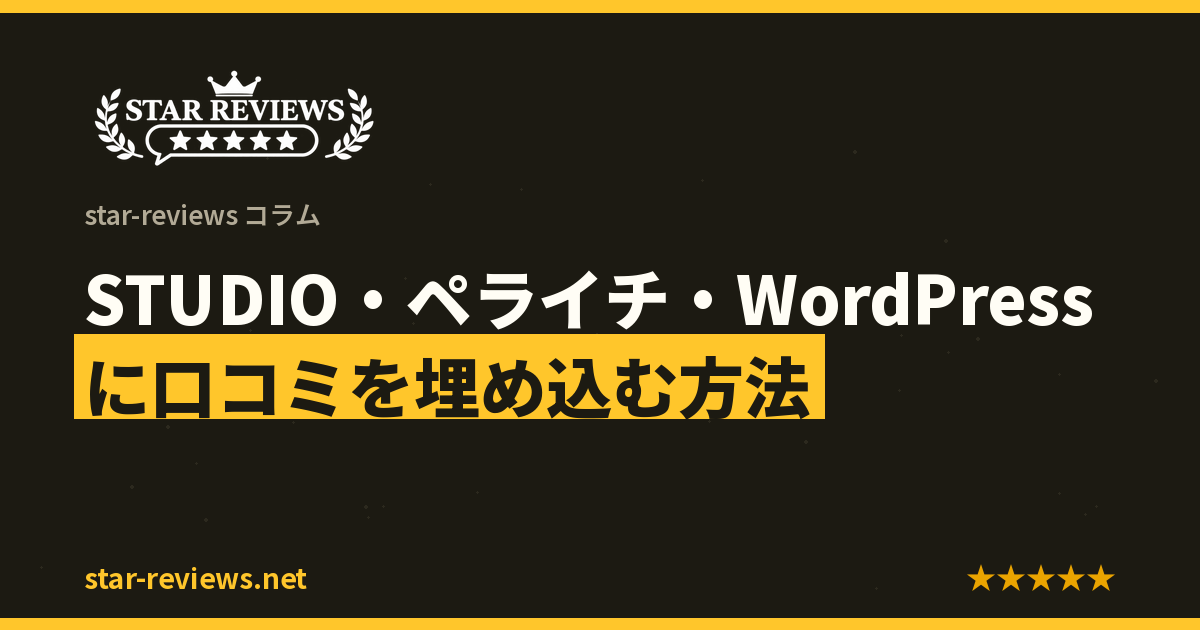
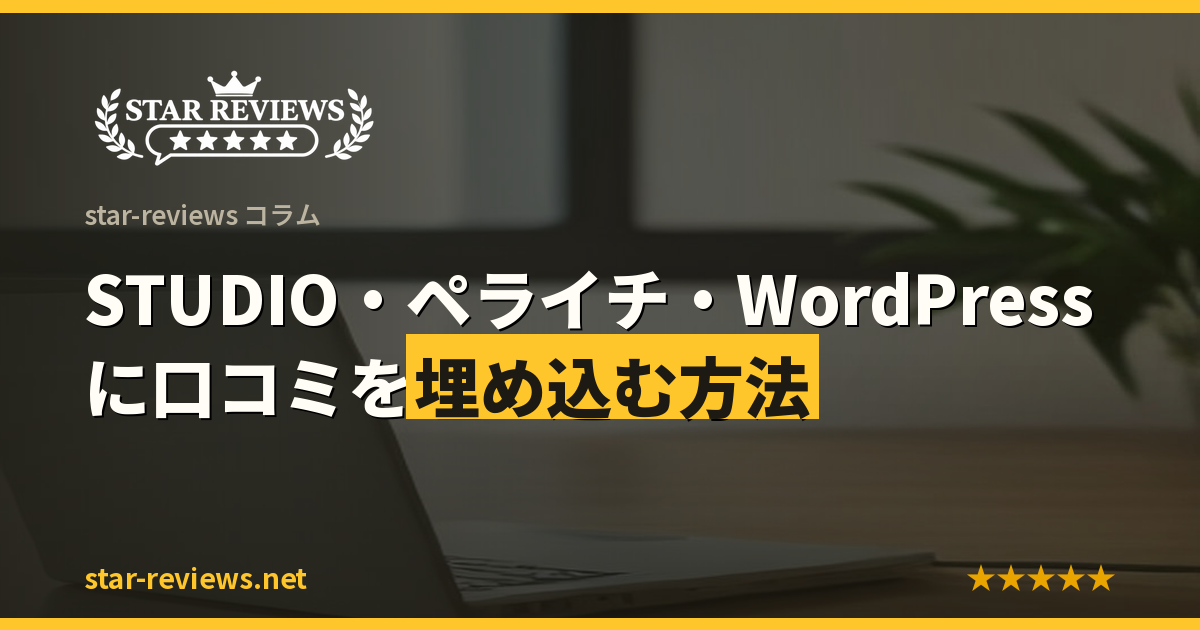
feat(blog): アイキャッチをタイトル連動のAI背景化＋強調フレーズ対応
- 背景: タイトルに関連するAI写真(Pollinations・無料/キー不要)を自動生成し、
  黒×黄の暗幕グラデ＋ロゴ＋★を重ねる。透かしは下端クロップで除去。取得失敗時は
  無地にフォールバック。記事ごとに coverPrompt(英語の題材)で題材を具体指定可。
- 強調: マーカーを「折返し最終行」ではなく意味のある語を強調。emph 指定、無ければ
  【】「」内を自動強調。折返しをまたいでも正しく強調。
- BlogPost型に coverPrompt/emph 追加。既存3記事に設定し生成し直し。
- publish-blog.mjs が coverPrompt/emph を publish-result に出力→ワークフローが
  EYECATCH_PROMPT/EYECATCH_EMPH でgen-eyecatchに渡す。

tsc通過・テスト43件pass・生成画像を確認済。

Claude-Session: https://claude.ai/code/session_01HYwaAWzcWaREfbQEofPorH

diff --git a/shared/blog/types.ts b/shared/blog/types.ts
@@ -8,6 +8,8 @@ export interface BlogPost {
   updated?: string; // 更新日 'YYYY-MM-DD'（任意）
   tags?: string[]; // 表示用タグ
   cover?: string; // カバー画像の絶対パス（例 /blog/assets/xxx.png）。未指定なら /og.png
+  coverPrompt?: string; // アイキャッチ背景のAI画像プロンプト（英語・題材を具体指定）。未指定ならタイトルから自動
+  emph?: string; // アイキャッチで黄色強調する語（未指定なら【】や「」内を自動強調）
   bodyHtml: string; // 本文（セマンティックHTML。h2/h3/p/ul/table 等）
   lead?: string; // 冒頭の結論ボックス（40〜80字で記事の問いに直接回答。AEO/スニペット用）
   faq?: { q: string; a: string }[]; // よくある質問（可視FAQ＋FAQPage構造化データを自動出力）

diff --git a/shared/blog/articles/embed-customer-reviews-on-website.ts b/shared/blog/articles/embed-customer-reviews-on-website.ts
@@ -10,6 +10,8 @@ export const post: BlogPost = {
   tags: ["埋め込み", "お客様の声", "ハウツー"],
   author: "star-reviews 編集部",
   cover: "/blog/assets/embed-customer-reviews-on-website.png",
+  coverPrompt: "close-up of a laptop screen showing a website page with a grid of customer testimonial cards and gold star ratings, bright modern office desk",
+  emph: "コピペ1行でOK",
   lead: "お客様の声は、レビュー収集ツールが発行する「埋め込みコード（1行）」を、サイトの表示したい場所に貼るだけで載せられます。HTMLの知識は不要で、STUDIO・WordPress・ペライチでも手順は同じです。",
   faq: [
     {

diff --git a/shared/blog/articles/senja-testimonial-to-alternative.ts b/shared/blog/articles/senja-testimonial-to-alternative.ts
@@ -10,6 +10,8 @@ export const post: BlogPost = {
   tags: ["レビュー収集", "ツール比較", "お客様の声"],
   author: "star-reviews 編集部",
   cover: "/blog/assets/senja-testimonial-to-japanese-alternative.png",
+  coverPrompt: "a laptop on a bright modern desk showing a customer reviews dashboard with gold star ratings",
+  emph: "日本語代替",
   lead: "Senja・Testimonial.toは高機能ですが英語UI・ドル課金が難点。日本語の店舗なら、日本語で匿名・特典収集でき、円建てで使える日本語ツール（例: star-reviews）が代替候補になります。",
   faq: [
     {

diff --git a/shared/blog/articles/embed-reviews-studio-peraichi-wordpress.ts b/shared/blog/articles/embed-reviews-studio-peraichi-wordpress.ts
@@ -12,6 +12,8 @@ export const post: BlogPost = {
   tags: ["埋め込み", "STUDIO", "WordPress", "ペライチ"],
   author: "star-reviews 編集部",
   cover: "/blog/assets/embed-reviews-studio-peraichi-wordpress.png",
+  coverPrompt: "a laptop on a bright desk showing a website builder editor with a customer reviews embed block",
+  emph: "埋め込む方法",
   lead: "STUDIO・ペライチ・WordPressのどれでも、口コミの埋め込みは「カスタムHTML／コード埋め込み」のブロックに、ツールが発行した1行のコードを貼るだけ。HTMLを書く必要はありません。",
   faq: [
     {

diff --git a/scripts/gen-eyecatch.py b/scripts/gen-eyecatch.py
@@ -2,13 +2,15 @@
 # -*- coding: utf-8 -*-
 """
 star-reviews コラムのアイキャッチ（タイトル入りサムネイル）自動生成。
-黒×黄エディトリアルのブランドに統一（AIっぽいテンプレ背景は使わない）。
+タイトルに関連するAI背景画像（Pollinations・無料/APIキー不要）に、黒×黄ブランドの
+暗幕グラデ＋白ロゴ＋タイトル（最終行に黄色マーカー）＋★ を重ねる。
+背景取得に失敗したら黒×黄の無地背景にフォールバック（必ず画像は出力される）。
   python3 scripts/gen-eyecatch.py <slug> "<title>" [out_png]
+  環境変数 EYECATCH_BG=solid で背景画像を使わず無地にできる。
 出力: public/blog/assets/<slug>.png（1200x630・og:image兼用）
-フォントは scripts/fonts/NotoSansJP.ttf（無ければ system Noto CJK）。
 """
-import sys, os, hashlib, random
-from PIL import Image, ImageDraw, ImageFont
+import sys, os, io, hashlib, random, time, urllib.parse, urllib.request
+from PIL import Image, ImageDraw, ImageFont, ImageFilter, ImageEnhance
 
 slug = sys.argv[1]
 title = sys.argv[2]
@@ -21,7 +23,7 @@ INK = (28, 26, 18)
 SUN = (255, 198, 43)
 SUN_DEEP = (234, 164, 0)
 PAPER = (255, 253, 245)
-MUTED = (178, 170, 150)
+MUTED = (188, 180, 160)
 
 seed = int(hashlib.md5(slug.encode("utf-8")).hexdigest(), 16)
 rnd = random.Random(seed)
@@ -53,24 +55,102 @@ def font(size, weight=800):
     return ImageFont.load_default()
 
 
+# ---- タイトルから背景の題材を決める（キーワード一致・無ければ汎用） ----
+SUBJECTS = [
+    (("google", "グーグル"), "a smartphone showing Google Maps star reviews next to a small shop storefront"),
+    (("video", "動画", "ugc"), "a person recording a short video testimonial on a smartphone on a tripod"),
+    (("salon", "美容", "サロン", "hair"), "a bright modern hair salon interior with a styling chair"),
+    (("restaurant", "飲食", "cafe", "カフェ"), "a cozy modern restaurant interior with tables"),
+    (("clinic", "整体", "治療", "院"), "a clean bright wellness clinic reception desk"),
+    (("ec", "ecommerce", "通販"), "an online shop product page on a laptop with five star ratings"),
+    (("template", "テンプレート", "質問"), "a questionnaire form on a clipboard and a pen on a bright desk"),
+    (("case", "事例", "導入"), "two people in a friendly business interview with a laptop"),
+    (("structured", "構造化", "seo"), "a laptop showing search results with star ratings, clean desk"),
+    (("stealth", "ステマ", "規制"), "a magnifying glass over review documents on a bright desk"),
+    (("anonymous", "匿名"), "a smartphone showing a review form with five gold stars"),
+    (("studio", "wordpress", "ペライチ", "embed", "埋め込み"), "a laptop on a bright desk showing a website with customer testimonial cards"),
+    (("senja", "testimonial", "比較", "ツール"), "a laptop on a bright desk showing a reviews dashboard with star ratings"),
+]
+
+
+def pick_subject():
+    low = (slug + " " + title).lower()
+    for keys, subj in SUBJECTS:
+        if any(k.lower() in low for k in keys):
+            return subj
+    return "five star customer reviews on a smartphone and laptop on a bright modern desk"
+
+
+def fetch_bg():
+    if os.environ.get("EYECATCH_BG", "").strip() == "solid":
+        return None
+    # 記事が EYECATCH_PROMPT で題材を具体指定していれば最優先（よりタイトルに寄せられる）
+    subj = os.environ.get("EYECATCH_PROMPT", "").strip() or pick_subject()
+    prompt = (
+        "straight-on eye-level photo of " + subj + ", soft natural daylight, "
+        "hyperrealistic photograph, ultra detailed, bright and airy, clean composition, "
+        "no text, no words, no letters, no watermark"
+    )
+    for model, to in [("flux", 70), ("turbo", 45), ("flux", 70)]:
+        try:
+            url = (
+                "https://image.pollinations.ai/prompt/" + urllib.parse.quote(prompt)
+                + "?width=1200&height=630&seed=%d&nologo=true&model=%s" % (seed % 100000, model)
+            )
+            req = urllib.request.Request(url, headers={"User-Agent": "Mozilla/5.0"})
+            data = urllib.request.urlopen(req, timeout=to).read()
+            im = Image.open(io.BytesIO(data)).convert("RGB")
+            if im.width < 400:
+                raise ValueError("too small")
+            # 右下に入る Pollinations の透かしを下端クロップで除去
+            im = im.crop((0, 0, im.width, int(im.height * 0.92)))
+            return im.resize((W, H), Image.LANCZOS)
+        except Exception as e:
+            sys.stderr.write("pollinations %s fail: %s\n" % (model, e))
+            time.sleep(2)
+    return None
+
+
+# ---- 背景を作る ----
+bg = fetch_bg()
 img = Image.new("RGB", (W, H), INK)
+if bg is not None:
+    # 少し落ち着かせる（彩度↓・明度やや↓）＝写真くさすぎない編集的トーン
+    bg = ImageEnhance.Color(bg).enhance(0.72)
+    bg = ImageEnhance.Brightness(bg).enhance(0.92)
+    img.paste(bg, (0, 0))
+    # 左→右の暗幕グラデ（左側ほど暗く＝左寄せの文字が読める）
+    grad = Image.new("L", (W, 1))
+    for x in range(W):
+        t = x / W
+        a = int(232 - t * 150)  # 左232 → 右82
+        grad.putpixel((x, 0), max(0, min(255, a)))
+    grad = grad.resize((W, H))
+    dark = Image.new("RGB", (W, H), INK)
+    img = Image.composite(dark, img, grad)
+    # 下側も軽く暗く
+    gb = Image.new("L", (1, H))
+    for y in range(H):
+        t = y / H
+        gb.putpixel((0, y), int(120 * max(0, (t - 0.55) / 0.45)) if t > 0.55 else 0)
+    gb = gb.resize((W, H))
+    img = Image.composite(Image.new("RGB", (W, H), INK), img, gb)
+else:
+    # フォールバック: 無地＋微細ドット
+    d0 = ImageDraw.Draw(img)
+    for _ in range(38):
+        x = rnd.randint(40, W - 40); y = rnd.randint(150, H - 40)
+        r = rnd.choice([2, 2, 3])
+        d0.ellipse([x, y, x + r, y + r], fill=(44, 41, 30))
+
 d = ImageDraw.Draw(img)
-
-# 背景の薄いドット（控えめなテクスチャ）
-for _ in range(38):
-    x = rnd.randint(40, W - 40)
-    y = rnd.randint(150, H - 40)
-    r = rnd.choice([2, 2, 3])
-    d.ellipse([x, y, x + r, y + r], fill=(44, 41, 30))
-
 # 上下の黄色ルール
 d.rectangle([0, 0, W, 12], fill=SUN)
 d.rectangle([0, H - 12, W, H], fill=SUN)
 
 PADX = 84
-# ロゴ（白版）
-logo_p = os.path.join(ROOT, "public", "logo-white.png")
 top = 70
+logo_p = os.path.join(ROOT, "public", "logo-white.png")
 if os.path.exists(logo_p):
     logo = Image.open(logo_p).convert("RGBA")
     lw = 300
@@ -81,22 +161,35 @@ if os.path.exists(logo_p):
 else:
     eyebrow_y = top
 
-# アイブロー
 d.text((PADX, eyebrow_y), "star-reviews コラム", font=font(26, 600), fill=MUTED)
 
-# タイトル（幅で自動折返し・最大4行・サイズ自動）
+
 def wrap(text, fnt, maxw):
-    lines, cur = [], ""
-    for ch in text:
+    """折返した各行を (行テキスト, title内の開始index) で返す。"""
+    lines, cur, start = [], "", 0
+    for i, ch in enumerate(text):
         test = cur + ch
         if d.textlength(test, font=fnt) <= maxw or not cur:
             cur = test
         else:
-            lines.append(cur)
-            cur = ch
+            lines.append((cur, start)); cur = ch; start = i
     if cur:
-        lines.append(cur)
+        lines.append((cur, start))
     return lines
+
+
+# 強調フレーズ emph を決める: 明示指定 > 【】内 > 「」内 > なし
+import re as _re
+emph = os.environ.get("EYECATCH_EMPH", "").strip()
+if not emph:
+    m = _re.search(r"[【「](.+?)[】」]", title)
+    if m:
+        emph = m.group(1)
+# emph の title内の範囲 [es, ee)
+es = ee = -1
+if emph and emph in title:
+    es = title.index(emph)
+    ee = es + len(emph)
 
 maxw = W - PADX * 2
 size = 66
@@ -104,24 +197,29 @@ while size >= 40:
     tf = font(size, 900)
     lines = wrap(title, tf, maxw)
     lh = int(size * 1.34)
-    block_h = lh * len(lines)
-    if len(lines) <= 4 and block_h <= 300:
+    if len(lines) <= 4 and lh * len(lines) <= 300:
         break
     size -= 4
 
 ty = eyebrow_y + 54
-# タイトル最終行の一部に黄色マーカー（エディトリアルの蛍光ペン表現）
-for i, ln in enumerate(lines):
-    y = ty + i * lh
-    if i == len(lines) - 1:
-        # 最終行は黄色の全高ハイライト（黒文字がしっかり読める“付箋”表現）
-        tw = d.textlength(ln, font=tf)
-        d.rectangle([PADX - 10, y - 2, PADX + tw + 14, y + size + 16], fill=SUN)
-        d.text((PADX, y), ln, font=tf, fill=INK)
-    else:
-        d.text((PADX, y), ln, font=tf, fill=PAPER)
+for ln, lstart in lines:
+    y = ty + (lines.index((ln, lstart))) * lh
+    lend = lstart + len(ln)
+    # この行と emph 範囲の重なり
+    hs = max(lstart, es) if es >= 0 else -1
+    he = min(lend, ee) if es >= 0 else -1
+    # まず行全体を白（写真上でも読めるよう薄い影）
+    d.text((PADX + 2, y + 2), ln, font=tf, fill=(0, 0, 0))
+    d.text((PADX, y), ln, font=tf, fill=PAPER)
+    if hs >= 0 and he > hs:
+        # 強調セグメントだけ黄色マーカー＋黒文字で上書き
+        pre = title[lstart:hs]
+        seg = title[hs:he]
+        x0 = PADX + d.textlength(pre, font=tf)
+        segw = d.textlength(seg, font=tf)
+        d.rectangle([x0 - 8, y - 2, x0 + segw + 8, y + size + 16], fill=SUN)
+        d.text((x0, y), seg, font=tf, fill=INK)
 
-# 下部: URL と ★
 d.text((PADX, H - 74), "star-reviews.net", font=font(28, 700), fill=SUN)
 stars = "★★★★★"
 sf = font(30, 700)
@@ -130,4 +228,4 @@ d.text((W - PADX - sw, H - 76), stars, font=sf, fill=SUN_DEEP)
 
 os.makedirs(os.path.dirname(out), exist_ok=True)
 img.save(out, "PNG")
-print("eyecatch:", out, img.size)
+print("eyecatch:", out, img.size, "bg=" + ("photo" if bg is not None else "solid"))
